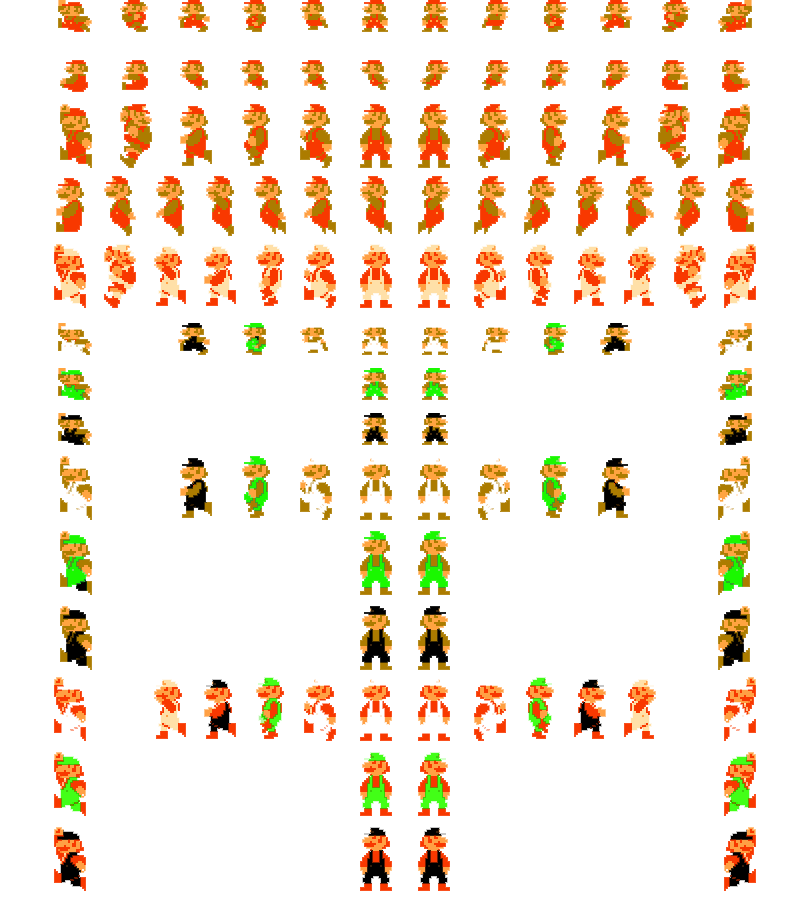
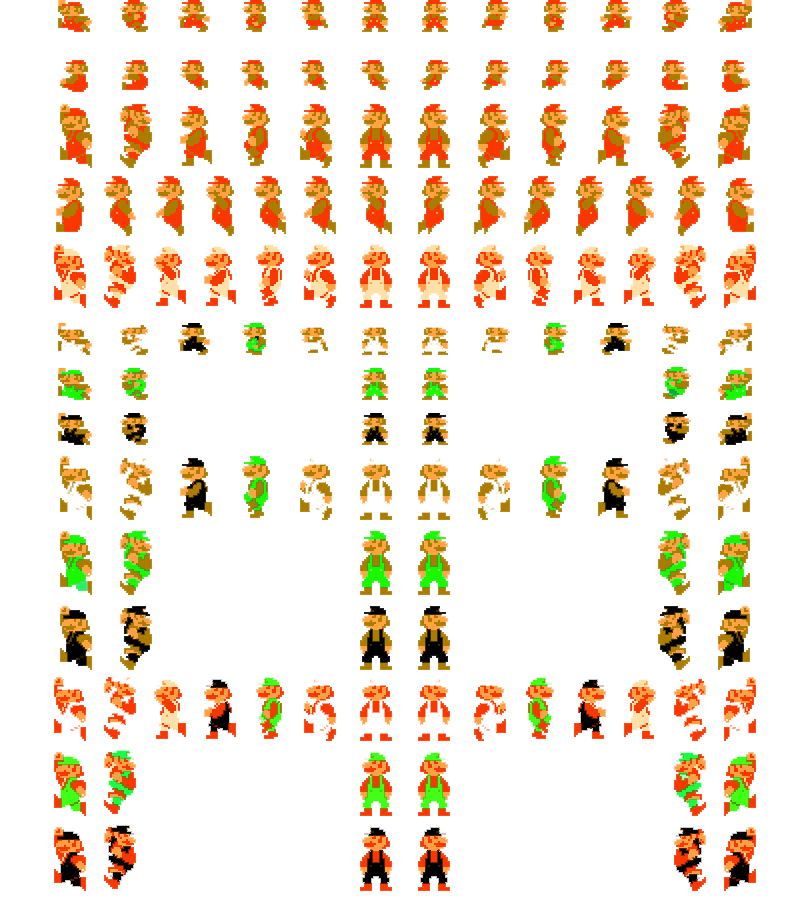
마리오 상태 추가(드리프트)

Changed region(s): [[0.8025, 0.3422, 0.8951, 0.9956], [0.1235, 0.3422, 0.1852, 0.9956], [0.0926, 0.6222, 0.1235, 0.6533]]

diff --git a/Super Mario bros/Mario.py b/Super Mario bros/Mario.py
@@ -3,7 +3,7 @@ import GameFramework
 
 class Mario:
 	# State
-	LEFT_IDLE, RIGHT_IDLE, LEFT_RUN, RIGHT_RUN,	LEFT_JUMP, RIGHT_JUMP = range(6)
+	LEFT_IDLE, RIGHT_IDLE, LEFT_RUN, RIGHT_RUN,	LEFT_JUMP, RIGHT_JUMP, RIGHT_DRIFT, LEFT_DRIFT = range(8)
 	JUMP = 900
 	GRAVITY = 3000
 	MAX_FIRE = 10
@@ -18,7 +18,7 @@ class Mario:
 	KEY_LIFE1 = (SDL_KEYDOWN, SDLK_1)
 	KEY_LIFE2 = (SDL_KEYDOWN, SDLK_2)
 	KEY_LIFE3 = (SDL_KEYDOWN, SDLK_3)
-	KEY_FIRE = (SDL_KEYDOWN, SDLK_w)
+	KEY_FIRE = (SDL_KEYDOWN, SDLK_LCTRL)
 	KEY_STAR = (SDL_KEYDOWN, SDLK_e)
 
 	IMAGE_LIFE1 = [
@@ -28,13 +28,17 @@ class Mario:
 		[[480, 870, 29, 30], [542, 870, 25, 30], [598, 870, 33, 30]],  # Right Run
 		[[57, 870, 34, 30]],  # Left Jump
 		[[717, 870, 34, 30]],  # Right Jump
+		[[120, 870, 29, 30]],  # Left Drift
+		[[661, 870, 29, 30]],  # Right Drift
 		# STAR
 		[[360, 547, 30, 30], [360, 502, 30, 30], [360, 457, 30, 30]],  # Left Idle
 		[[420, 547, 30, 30], [420, 502, 30, 30], [420, 457, 30, 30]],  # Right Idle
 		[[298, 547, 29, 30], [240, 547, 25, 30], [175, 547, 35, 30]],  # Left Run
 		[[480, 547, 29, 30], [542, 547, 25, 30], [598, 547, 33, 30]],  # Right Run
 		[[57, 547, 34, 30], [57, 502, 34, 30], [57, 457, 34, 30]],  # Left Jump
-		[[717, 547, 34, 30], [717, 502, 34, 30], [717, 457, 34, 30]]  # Right Jump
+		[[717, 547, 34, 30], [717, 502, 34, 30], [717, 457, 34, 30]],  # Right Jump
+		[[119, 547, 29, 30], [120, 502, 29, 30], [120, 457, 29, 30]],  # Left Drift
+		[[661, 547, 29, 30], [661, 502, 29, 30], [661, 457, 29, 30]]  # Right Drift
 	]
 	IMAGE_LIFE2 = [
 		[[359, 732, 33, 64]],  # Left Idle
@@ -43,15 +47,17 @@ class Mario:
 		[[476, 732, 33, 64], [538, 732, 30, 64], [597, 732, 33, 64]],  # Right Run
 		[[59, 732, 32, 64]],  # Left Jump
 		[[716, 732, 32, 64]],  # Right Jump
+		[[658, 732, 33, 64]],  # Left Drift
+		[[119, 732, 33, 64]],  # Right Drift
 		# STAR
 		[[359, 380, 33, 64], [359, 305, 33, 64], [359, 230, 33, 64]],  # Left Idle
 		[[417, 380, 33, 64], [417, 305, 33, 64], [417, 230, 33, 64]],  # Right Idle
 		[[298, 380, 33, 64], [240, 380, 30, 64], [179, 380, 33, 64]],  # Left Run
 		[[476, 380, 33, 64], [538, 380, 30, 64], [597, 380, 33, 64]],  # Right Run
 		[[59, 380, 32, 64], [59, 305, 32, 64], [59, 230, 32, 64]],  # Left Jump
-		[[716, 380, 32, 64], [716, 305, 32, 64], [716, 230, 32, 64]]  # Right Jump
-
-
+		[[716, 380, 32, 64], [716, 305, 32, 64], [716, 230, 32, 64]],  # Right Jump
+		[[658, 380, 33, 64], [658, 305, 33, 64], [658, 230, 33, 64]], # Left Drift
+		[[119, 380, 33, 64], [119, 305, 33, 64], [119, 230, 33, 64]]  # Right Drift
 	]
 	IMAGE_FIREMAN = [
 		[[359, 592, 33, 64]],  # Left Idle
@@ -59,14 +65,18 @@ class Mario:
 		[[303, 592, 33, 64], [255, 592, 30, 64], [203, 592, 33, 64], [153, 592, 33, 64]],  # Left Run
 		[[472, 592, 33, 64], [524, 592, 30, 64], [573, 592, 33, 64], [622, 592, 33, 64]],  	# Right Run
 		[[52, 592, 32, 64]],  # Left Jump
-		[[723, 592, 32, 64]], # Right Jump
+		[[723, 592, 32, 64]],  # Right Jump
+		[[673, 592, 33, 64]],  # LEFT Drift
+		[[103, 592, 33, 64]],  # Right Drift
 		# STAR
 		[[359, 160, 33, 64], [359, 85, 33, 64], [359, 10, 33, 64]],  # Left Idle
 		[[417, 160, 33, 64], [417, 85, 33, 64], [417, 10, 33, 64]],  # Right Idle
 		[[303, 160, 33, 64], [255, 160, 30, 64], [203, 160, 33, 64], [153, 160, 33, 64]],  # Left Run
 		[[472, 160, 33, 64], [524, 160, 30, 64], [573, 160, 33, 64], [622, 160, 33, 64]],  	# Right Run
 		[[52, 160, 32, 64], [52, 85, 32, 64], [52, 10, 32, 64]],  # Left Jump
-		[[723, 160, 32, 64], [723, 85, 32, 64], [723, 10, 32, 64]]  # Right Jump
+		[[723, 160, 32, 64], [723, 85, 32, 64], [723, 10, 32, 64]],  # Right Jump
+		[[673, 160, 33, 64], [673, 85, 33, 64], [673, 10, 33, 64]],  # Left Drift
+		[[103, 160, 33, 64], [103, 85, 33, 64], [103, 10, 33, 64]]  # Right Drift
 	]
 	IMAGE_STAR = [
 
@@ -78,7 +88,10 @@ class Mario:
 		self.dx, self.dy = 0, 0
 		self.fidx = 0
 		self.time = 0
+		self.driftr, self.driftl = True, True
+		self.jumping = False
 		self.jump_speed = 0
+		self.accel = 0.0
 		self.speed = 3
 		self.state = Mario.RIGHT_IDLE
 		self.life = 0
@@ -100,17 +113,17 @@ class Mario:
 					self.is_fire[i] = False
 		if self.life == 0:
 			if self.star == True:
-				self.image.clip_draw(*Mario.IMAGE_LIFE1[self.state+6][self.fidx], self.x, self.y, 40, 40)
+				self.image.clip_draw(*Mario.IMAGE_LIFE1[self.state+8][self.fidx], self.x, self.y, 40, 40)
 			else:
 				self.image.clip_draw(*Mario.IMAGE_LIFE1[self.state][self.fidx], self.x, self.y, 40, 40)
 		elif self.life == 1:
 			if self.star == True:
-				self.image.clip_draw(*Mario.IMAGE_LIFE2[self.state+6][self.fidx], self.x, self.y, 40, 80)
+				self.image.clip_draw(*Mario.IMAGE_LIFE2[self.state+8][self.fidx], self.x, self.y, 40, 80)
 			else:
 				self.image.clip_draw(*Mario.IMAGE_LIFE2[self.state][self.fidx], self.x, self.y, 40, 80)
 		elif self.life == 2:
 			if self.star == True:
-				self.image.clip_draw(*Mario.IMAGE_FIREMAN[self.state+6][self.fidx], self.x, self.y, 40, 80)
+				self.image.clip_draw(*Mario.IMAGE_FIREMAN[self.state+8][self.fidx], self.x, self.y, 40, 80)
 			else:
 				self.image.clip_draw(*Mario.IMAGE_FIREMAN[self.state][self.fidx], self.x, self.y, 40, 80)
 
@@ -118,32 +131,71 @@ class Mario:
 		self.set_background = bg
 
 	def update(self):
-		self.x += self.speed * self.dx
+		if self.dx > 0:
+			self.accel += 0.02
+			self.x += self.speed * self.dx * self.accel
+			if self.accel > 1.0:
+				self.accel = 1.0
+			if self.accel < 0.0:
+				if self.accel >= -0.2:
+					self.accel += 0.01
+					self.state = Mario.RIGHT_RUN
+				if self.driftl == True:
+					if self.state not in [Mario.LEFT_JUMP, Mario.RIGHT_JUMP]:
+						self.state = Mario.LEFT_DRIFT
+					self.driftl, self.driftr = False, True
+		elif self.dx < 0:
+			self.x -= self.speed * self.dx * self.accel
+			self.accel -= 0.02
+			if self.accel < -1.0:
+				self.accel = -1.0
+			if self.accel > 0.0:
+				if self.accel <= 0.2:
+					self.accel -= 0.01
+					self.state = Mario.LEFT_RUN
+				if self.driftr == True:
+					if self.state not in [Mario.LEFT_JUMP, Mario.RIGHT_JUMP]:
+						self.state = Mario.RIGHT_DRIFT
+					self.driftl, self.driftr = True, False
+		elif self.dx == 0 and self.accel != 0.0:
+			if self.accel <= 0.0:
+				self.accel += 0.01
+				self.x += self.speed * self.accel
+				if self.accel > 0.0:
+					self.accel = 0.0
+			else:
+				self.accel -= 0.01
+				self.x += self.speed * self.accel
+				if self.accel < 0.0:
+					self.accel = 0.0
+
+
 		for i in range(Mario.MAX_FIRE):
 			if self.is_fire[i] == True:
-				self.fidfx[i] = (self.fidfx[i] + 1) % 4
+				self.fidfx[i] = int(self.time * 14) % len(Mario.IMAGE_FIRE)
 				self.fx[i] += self.speed * self.fdx[i] * 2
 		if self.life == 0:
 			if self.star == True:
-				self.fidx = int(self.time * 7) % len(Mario.IMAGE_LIFE1[self.state+6])
+				self.fidx = int(self.time * 10) % len(Mario.IMAGE_LIFE1[self.state+8])
 			else:
-				self.fidx = int(self.time * 7) % len(Mario.IMAGE_LIFE1[self.state])
+				self.fidx = int(self.time * 10) % len(Mario.IMAGE_LIFE1[self.state])
 		elif self.life == 1:
 			if self.star == True:
-				self.fidx = int(self.time * 7) % len(Mario.IMAGE_LIFE2[self.state+6])
+				self.fidx = int(self.time * 10) % len(Mario.IMAGE_LIFE2[self.state+8])
 			else:
-				self.fidx = int(self.time * 7) % len(Mario.IMAGE_LIFE2[self.state])
+				self.fidx = int(self.time * 10) % len(Mario.IMAGE_LIFE2[self.state])
 		elif self.life == 2:
 			if self.star == True:
-				self.fidx = int(self.time * 7) % len(Mario.IMAGE_FIREMAN[self.state+6])
+				self.fidx = int(self.time * 10) % len(Mario.IMAGE_FIREMAN[self.state+8])
 			else:
-				self.fidx = int(self.time * 7) % len(Mario.IMAGE_LIFE2[self.state])
+				self.fidx = int(self.time * 10) % len(Mario.IMAGE_LIFE2[self.state])
 		self.time += GameFramework.delta_time
-		if self.state in [Mario.RIGHT_JUMP, Mario.LEFT_JUMP]:
+		if self.jumping == True:
 			self.y += self.falling_speed * GameFramework.delta_time
 			self.falling_speed -= Mario.GRAVITY * GameFramework.delta_time
 			if self.life == 0:
 				if self.y < 80:
+					self.jumping = False
 					self.y = 80
 					if self.state == Mario.LEFT_JUMP:
 						self.state = Mario.LEFT_RUN if self.dx < 0 else Mario.LEFT_IDLE
@@ -151,6 +203,7 @@ class Mario:
 						self.state = Mario.RIGHT_RUN if self.dx > 0 else Mario.RIGHT_IDLE
 			else:
 				if self.y < 100:
+					self.jumping = False
 					self.y = 100
 					if self.state == Mario.LEFT_JUMP:
 						self.state = Mario.LEFT_RUN if self.dx < 0 else Mario.LEFT_IDLE
@@ -158,11 +211,11 @@ class Mario:
 						self.state = Mario.RIGHT_RUN if self.dx > 0 else Mario.RIGHT_IDLE
 
 	def jump(self):
-		if self.state in [Mario.LEFT_IDLE, Mario.LEFT_RUN]:
+		if self.state in [Mario.LEFT_IDLE, Mario.LEFT_RUN, Mario.RIGHT_DRIFT]:
 			self.state = Mario.LEFT_JUMP
 			self.falling_speed = Mario.JUMP
 			# print(get_time())
-		elif self.state in [Mario.RIGHT_IDLE, Mario.RIGHT_RUN]:
+		elif self.state in [Mario.RIGHT_IDLE, Mario.RIGHT_RUN, Mario.LEFT_DRIFT]:
 			self.state = Mario.RIGHT_JUMP
 			self.falling_speed = Mario.JUMP
 			# print(get_time())
@@ -189,6 +242,7 @@ class Mario:
 			self.update_delta(*Mario.KEY_MAP[pair])
 		elif pair == Mario.KEY_JUMP:
 			self.jump()
+			self.jumping = True
 		elif pair == Mario.KEY_LIFE1:
 			self.life = 0
 			self.y = 80

diff --git a/Super Mario bros/GameSprite.py b/Super Mario bros/GameSprite.py
@@ -16,7 +16,6 @@ def load():
 			data = json.load(file)
 
 			for name in data:
-				print(name)
 				sprite_rects[name] = tuple(data[name])
 
 class Sprite:
